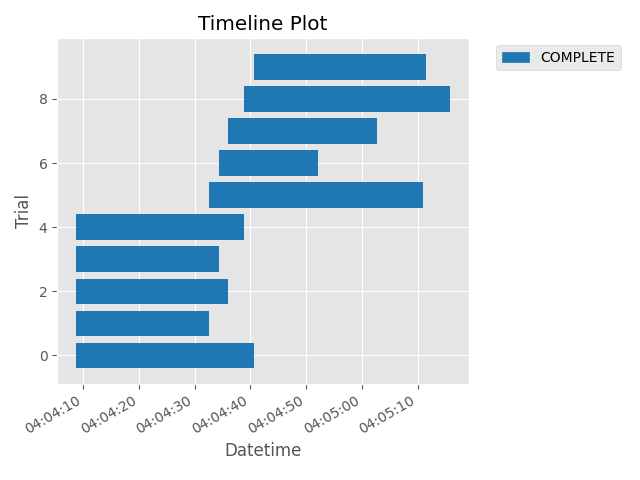
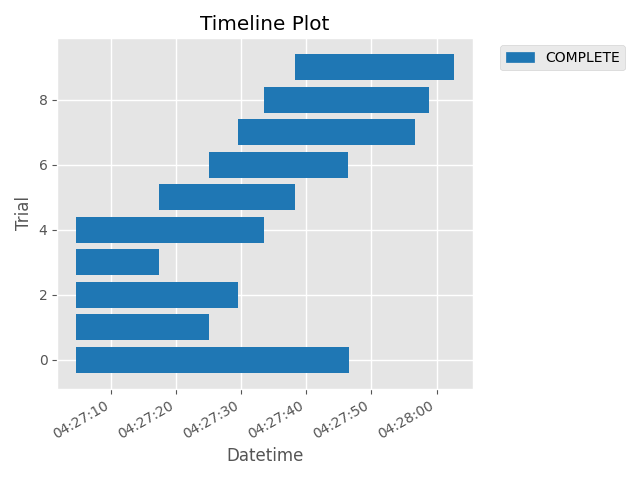
add plots in comparaison

diff --git a/scripts/optimize_params.py b/scripts/optimize_params.py
@@ -8,6 +8,8 @@ import optuna
 
 logger = logging.getLogger(__name__)
 
+plt.style.use("Solarize_Light2")
+
 
 def generate_experiment_name():
     p1 = random.randint(100, 999)
@@ -64,17 +66,24 @@ def objective(trial):
         return float("-inf")
 
     metric = dvc.api.metrics_show(rev=exp_name)["f1-score"]
-    return max_features, metric
+    return metric
 
 
 N_TRIALS = 10
 N_JOBS = 5
 
 
-study = optuna.create_study(directions=["minimize", "maximize"])
+study = optuna.create_study(direction="maximize")
 study.optimize(objective, n_trials=N_TRIALS, n_jobs=N_JOBS)
 # print(study.best_params)
 # print(study.best_value)
 
 optuna.visualization.matplotlib.plot_timeline(study)
+plt.tight_layout()
 plt.savefig("comparaison/timeline.png")
+optuna.visualization.matplotlib.plot_optimization_history(study)
+plt.tight_layout()
+plt.savefig("comparaison/optimization_history.png")
+optuna.visualization.matplotlib.plot_parallel_coordinate(study)
+plt.tight_layout()
+plt.savefig("comparaison/parallel_coordinate.png")

diff --git a/src/plots/confusion_matrix.py b/src/plots/confusion_matrix.py
@@ -29,10 +29,7 @@ def plot_confusion_matrix(y_pred, y_true, labels, ax):
         square=True,
     )
 
-    # ax.set_box_aspect(1)
-
     ax.tick_params(axis="both", which="both", length=0)
-    # ax.xaxis.set_label_position("top")
     ax.set_xlabel("Pred Labels")
     ax.set_ylabel("True Labels")
     ax.set_title("Confusion Matrix", fontweight="bold", fontsize=10)
